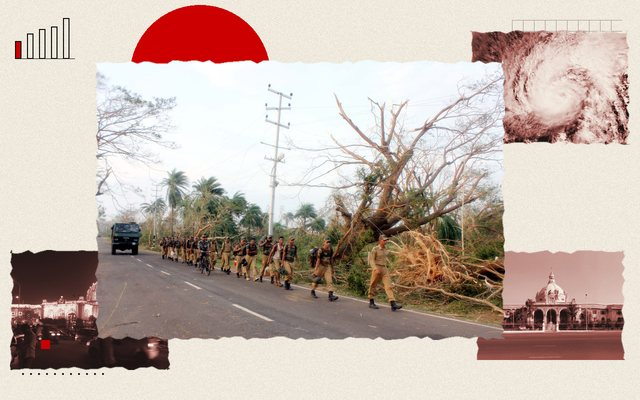
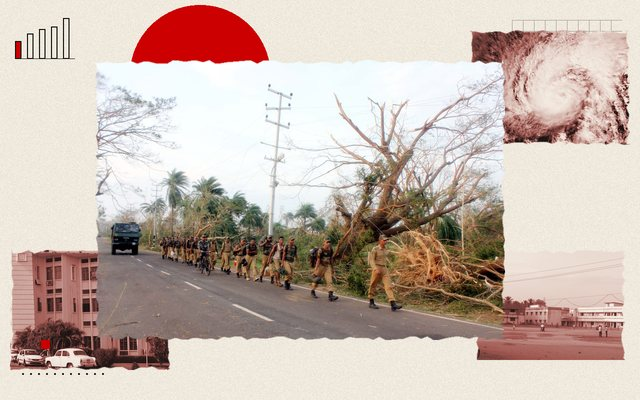
Hourly 11:00 IST: collage fix for the Akvan advisory story
The collage behind akvan-rain-bengal-jharkhand-rabi-sowing-fog-imd had Uttar Pradesh election tiles; dateline set to Bhubaneswar, Odisha (the rain story's main state) and the collage remade with a Bay of Bengal cyclone and Odisha scenes.

Claude-Session: https://claude.ai/code/session_01C3zerXHWtaNZtwdb4FbKVa

Changed region(s): [[0.7188, 0.6, 1.0, 0.9], [0.0, 0.6, 0.2812, 0.93]]

diff --git a/content/hi/news/akvan-rain-bengal-jharkhand-rabi-sowing-fog-imd.md b/content/hi/news/akvan-rain-bengal-jharkhand-rabi-sowing-fog-imd.md
@@ -9,7 +9,7 @@ topics: [states]
 title: "आईएमडी ने ओडिशा, बंगाल और झारखंड के किसानों से कहा, खेत से पानी निकालें और रबी की बुवाई रोकें; उत्तर भारत में 23 नवंबर तक घना कोहरा"
 standfirst: "चक्रवात अकवान के बाद पूर्वी राज्यों में खेतों में जलभराव चिंता है। मौसम विभाग के शुक्रवार के बुलेटिन में दिल्ली, पंजाब, हरियाणा और चंडीगढ़ में रविवार तक और उत्तर प्रदेश में रविवार व सोमवार को घने कोहरे का अनुमान है।"
 published: 2026-11-21T11:24:28+05:30
-location: नई दिल्ली
+location: "भुवनेश्वर, ओडिशा"
 keyPoints:
   - "आईएमडी ने ओडिशा, गंगा के मैदानी पश्चिम बंगाल और झारखंड के किसानों से **जलभराव वाले खेतों से पानी निकालने और रबी की बुवाई टालने** को कहा।"
   - "ओडिशा के पात्रपुर में 24 घंटे में **21 सेमी बारिश** दर्ज हुई, जो सबसे ज्यादा है। श्रीकाकुलम में 19 सेमी हुई।"

diff --git a/content/en/news/akvan-rain-bengal-jharkhand-rabi-sowing-fog-imd.md b/content/en/news/akvan-rain-bengal-jharkhand-rabi-sowing-fog-imd.md
@@ -8,7 +8,7 @@ topics: [states]
 title: "IMD tells farmers in Odisha, Bengal and Jharkhand to drain fields and hold rabi sowing; dense fog forecast in north India to November 23"
 standfirst: "Waterlogged fields after Cyclone Akvan are the concern in the eastern states, and the weather office's Friday bulletin forecasts dense fog over Delhi, Punjab, Haryana and Chandigarh through Sunday and over Uttar Pradesh on Sunday and Monday."
 published: 2026-11-21T11:24:28+05:30
-location: New Delhi
+location: "Bhubaneswar, Odisha"
 keyPoints:
   - "IMD asked farmers in Odisha, Gangetic West Bengal and Jharkhand to **drain waterlogged fields and postpone rabi sowing**."
   - "Patrapur in Odisha recorded **21 cm of rain** in 24 hours, the highest total, ahead of Srikakulam (19 cm)."
